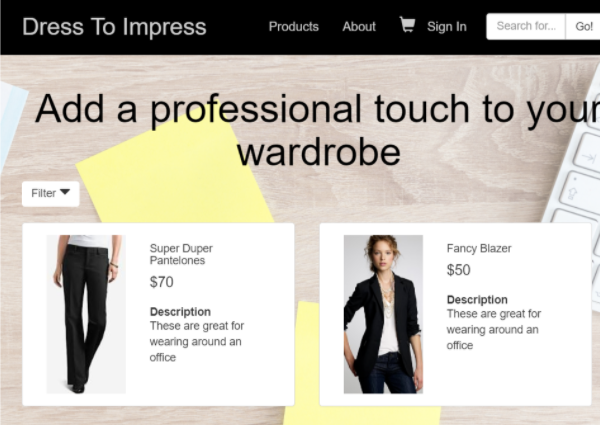
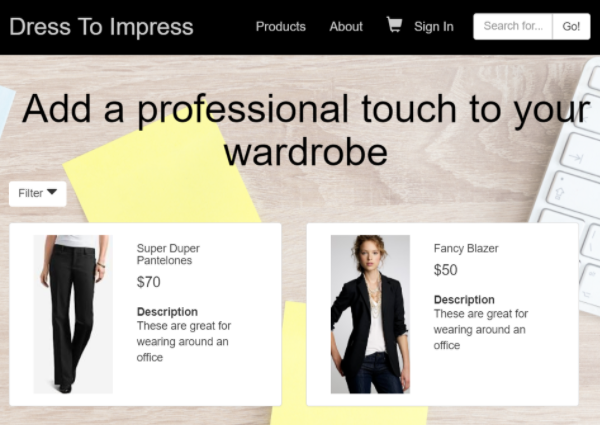
Adjust featured photo on project-detail

diff --git a/src/app/contact-form/contact-form.component.html b/src/app/contact-form/contact-form.component.html
@@ -1,5 +1,5 @@
 
-  <h4>Leave me a message</h4>
+  <h4>Leave me a note!</h4>
   <div *ngIf="!name; else forminfo">
     <form [formGroup]="messageForm" novalidate (ngSubmit)="createMessage(messageForm.value)">
       <div class="form-group">
@@ -14,7 +14,7 @@
       <div *ngIf="!messageForm.controls['comment'].valid && (messageForm.controls['comment'].dirty || messageForm.controls['comment'].touched)">
         <span class="warning">Your message must be between 20 and 500 characters</span>
       </div>
-      <input type="submit" class="btn btn-submit" value="Submit Form" [disabled]="!messageForm.valid">
+      <input type="submit" class="btn btn-submit" value="Send" [disabled]="!messageForm.valid">
     </form>
   </div>
 

diff --git a/src/app/project-detail/project-detail.component.scss b/src/app/project-detail/project-detail.component.scss
@@ -26,8 +26,7 @@ h4 a {
 }
 
 .photo {
-  height: 200px;
-  background-size: contain;
-  background-position: center;
+  height: 300px;
+  background-position: top center;
   background-repeat: no-repeat;
 }
